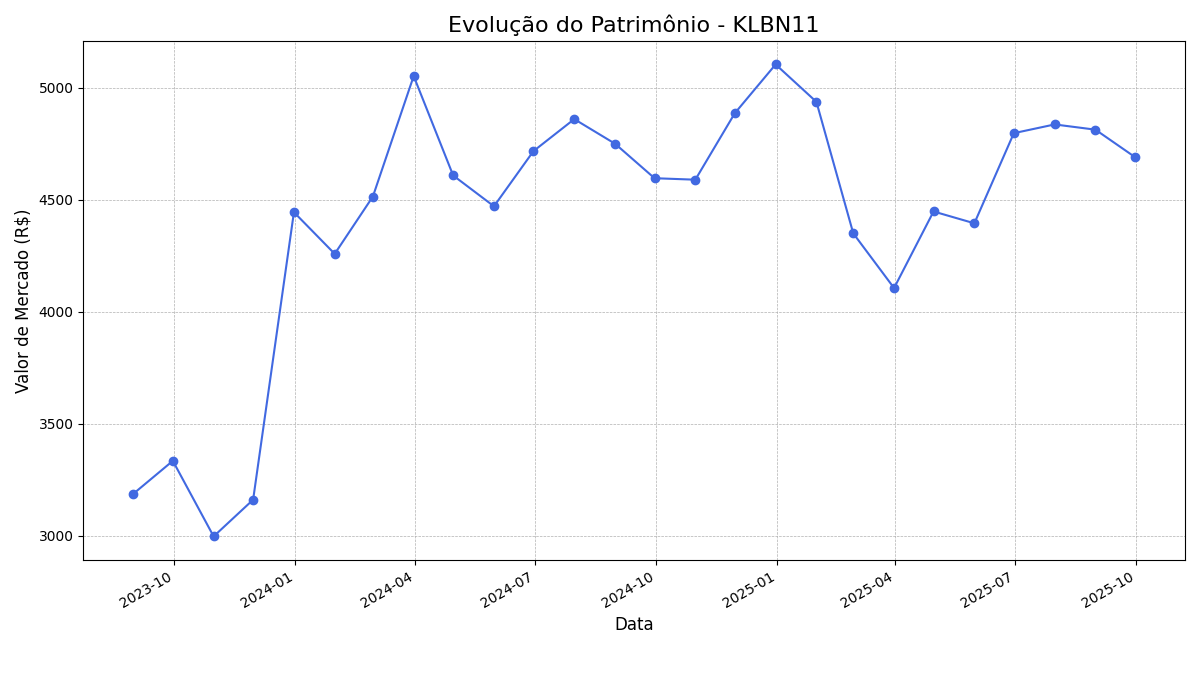
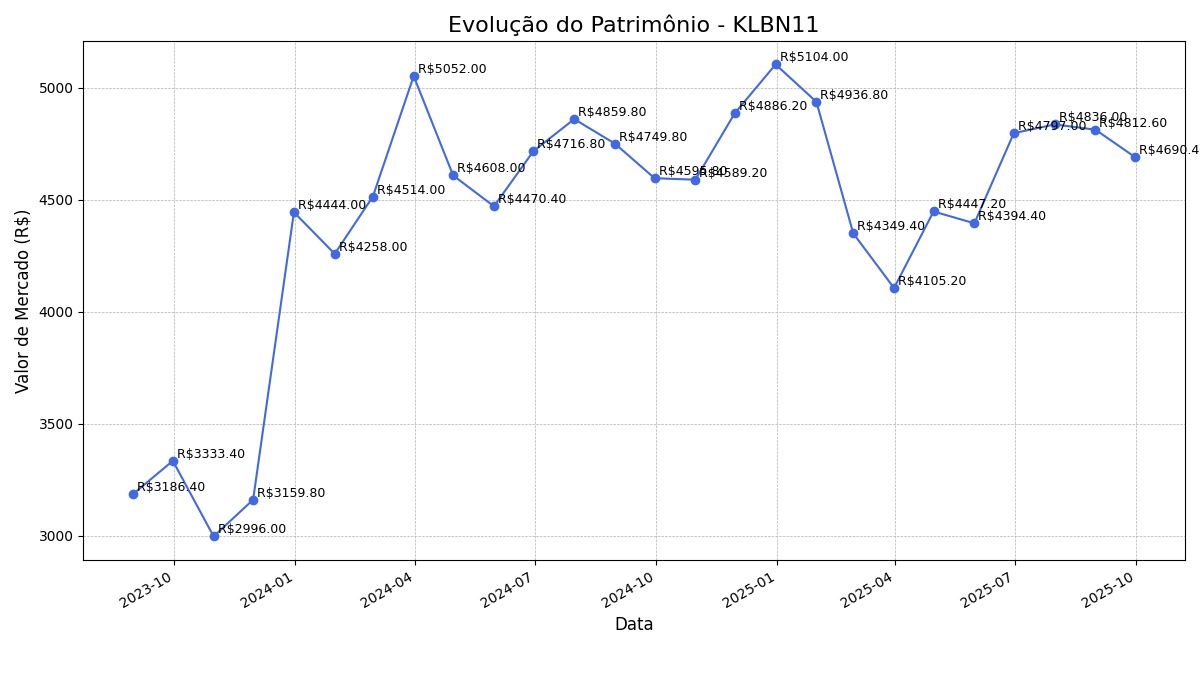
criado geraão de csv dos graficos. criado funcao main()

diff --git a/dlombello/main.py b/dlombello/main.py
@@ -15,6 +15,69 @@ token = os.getenv('DLP_TOKEN')
 if not token:
     raise ValueError("A variável de ambiente 'DLP_TOKEN' não foi encontrada ou está vazia. Verifique seu arquivo .env.")
 
+def gerar_grafico_twr(df: pd.DataFrame, ativo: str):
+    """
+    Calcula o Time-Weighted Return (TWR) e gera um gráfico da sua evolução.
+
+    Args:
+        df (pd.DataFrame): DataFrame com o histórico, contendo 'date', 'vlr_mercado' e 'vlr_investido'.
+        ativo (str): Nome do ativo para o título do gráfico.
+    """
+    colunas_necessarias = ['date', 'vlr_mercado', 'vlr_investido']
+    if not all(col in df.columns for col in colunas_necessarias):
+        print(f"DataFrame não contém as colunas necessárias ({', '.join(colunas_necessarias)}) para calcular o TWR.")
+        return
+
+    # Garante que a pasta de gráficos exista
+    pasta_graficos = "dlombello/graficos"
+    os.makedirs(pasta_graficos, exist_ok=True)
+
+    # 1. Preparar os dados
+    df_twr = df.copy()
+    df_twr['date'] = pd.to_datetime(df_twr['date'])
+    df_twr = df_twr.sort_values(by='date').reset_index(drop=True)
+
+    # 2. Calcular o fluxo de caixa (aportes/retiradas) em cada período
+    # O .diff() calcula a diferença entre a linha atual e a anterior.
+    df_twr['cash_flow'] = df_twr['vlr_investido'].diff().fillna(df_twr['vlr_investido'].iloc[0])
+
+    # 3. Calcular o valor inicial de cada período (valor do fim do período anterior)
+    # O .shift(1) move os valores uma linha para baixo.
+    df_twr['valor_inicial_periodo'] = df_twr['vlr_mercado'].shift(1).fillna(0)
+
+    # 4. Calcular o Retorno do Período (Holding Period Return - HPR)
+    # HPR = Valor Final / (Valor Inicial + Fluxo de Caixa)
+    # Usamos (valor_inicial_periodo + cash_flow) como denominador. Se for zero, o retorno é 1 (0%).
+    denominador = df_twr['valor_inicial_periodo'] + df_twr['cash_flow']
+    df_twr['hpr'] = df_twr['vlr_mercado'] / denominador
+    df_twr['hpr'] = df_twr['hpr'].fillna(1.0) # Trata possíveis divisões por zero no início
+
+    # 5. Calcular o TWR acumulado
+    # O .cumprod() multiplica acumuladamente os valores da série.
+    df_twr['twr_acumulado_%'] = (df_twr['hpr'].cumprod() - 1) * 100
+
+    # 6. Gerar o gráfico
+    plt.figure(figsize=(12, 7))
+    plt.plot(df_twr['date'], df_twr['twr_acumulado_%'], marker='o', linestyle='-', color='darkorange')
+    plt.title(f'Rentabilidade (TWR Acumulado) - {ativo}', fontsize=16)
+    plt.ylabel('Rentabilidade Acumulada (%)', fontsize=12)
+    plt.gca().yaxis.set_major_formatter(mticker.PercentFormatter())
+    plt.grid(True, which='both', linestyle='--', linewidth=0.5)
+    plt.axhline(0, color='black', linewidth=1.2, linestyle='--')
+    caminho_arquivo = os.path.join(pasta_graficos, f'evolucao_twr_{ativo}.png')
+
+    # Adiciona os rótulos de valor em cada ponto
+    for index, row in df_twr.iterrows():
+        plt.text(row['date'], row['twr_acumulado_%'], f' {row["twr_acumulado_%"]:.2f}%', va='bottom', ha='left', fontsize=9)
+
+    # Salva os dados em um arquivo CSV (formato para Excel brasileiro)
+    caminho_csv = os.path.join(pasta_graficos, f'evolucao_twr_{ativo}.csv')
+    df_twr[['date', 'twr_acumulado_%']].to_csv(caminho_csv, index=False, decimal=',', sep=';')
+    print(f"Dados do gráfico de TWR salvos em: {caminho_csv}")
+
+    plt.savefig(caminho_arquivo)
+    print(f"Gráfico de TWR salvo com sucesso em: {caminho_arquivo}")
+
 def gerar_grafico_percentual(df: pd.DataFrame, ativo: str):
     """
     Gera e salva um gráfico da evolução percentual (lucro/prejuízo) de um ativo.
@@ -58,6 +121,16 @@ def gerar_grafico_percentual(df: pd.DataFrame, ativo: str):
 
     # Salva o gráfico em um arquivo
     caminho_arquivo = os.path.join(pasta_graficos, f'evolucao_percentual_{ativo}.png')
+
+    # Adiciona os rótulos de valor em cada ponto
+    for index, row in df_grafico.iterrows():
+        plt.text(row['date'], row['evolucao_%'], f' {row["evolucao_%"]:.2f}%', va='bottom', ha='left', fontsize=9)
+
+    # Salva os dados em um arquivo CSV (formato para Excel brasileiro)
+    caminho_csv = os.path.join(pasta_graficos, f'evolucao_percentual_{ativo}.csv')
+    df_grafico[['date', 'evolucao_%']].to_csv(caminho_csv, index=False, decimal=',', sep=';')
+    print(f"Dados do gráfico percentual salvos em: {caminho_csv}")
+
     plt.savefig(caminho_arquivo)
     print(f"Gráfico percentual salvo com sucesso em: {caminho_arquivo}")
 
@@ -96,6 +169,16 @@ def gerar_grafico_evolucao(df: pd.DataFrame, ativo: str):
 
     # Salva o gráfico em um arquivo
     caminho_arquivo = os.path.join(pasta_graficos, f'evolucao_{ativo}.png')
+
+    # Adiciona os rótulos de valor em cada ponto
+    for index, row in df_grafico.iterrows():
+        plt.text(row['date'], row['vlr_mercado'], f' R${row["vlr_mercado"]:.2f}', va='bottom', ha='left', fontsize=9)
+
+    # Salva os dados em um arquivo CSV (formato para Excel brasileiro)
+    caminho_csv = os.path.join(pasta_graficos, f'evolucao_{ativo}.csv')
+    df_grafico[['date', 'vlr_mercado']].to_csv(caminho_csv, index=False, decimal=',', sep=';')
+    print(f"Dados do gráfico de evolução salvos em: {caminho_csv}")
+
     plt.savefig(caminho_arquivo)
     print(f"\nGráfico salvo com sucesso em: {caminho_arquivo}")
 
@@ -148,12 +231,20 @@ def buscar_historico(token: str, ativo: str = None, classe: str = None, corretor
         print("Erro ao processar a resposta da API. Não é um JSON válido.")
         return None
 
-# --- Exemplo de uso da função ---
-# Busca o histórico do ativo 'KLBN11'
-df_historico = buscar_historico(token, ativo="KLBN11")
+def main():
+    """
+    Função principal que orquestra a execução do script.
+    """
+    # Busca o histórico do ativo 'KLBN11'
+    df_historico = buscar_historico(token, ativo="KLBN11")
 
-if df_historico is not None:
-    print("Dados capturados com sucesso! Exibindo as 5 primeiras linhas:")
-    print(df_historico.head())
-    gerar_grafico_evolucao(df_historico, ativo="KLBN11")
-    gerar_grafico_percentual(df_historico, ativo="KLBN11")
+    if df_historico is not None:
+        print("Dados capturados com sucesso! Exibindo as 5 primeiras linhas:")
+        print(df_historico.head())
+        gerar_grafico_evolucao(df_historico, ativo="KLBN11")
+        gerar_grafico_percentual(df_historico, ativo="KLBN11")
+        gerar_grafico_twr(df_historico, ativo="KLBN11")
+
+# Garante que a função main() só seja executada quando o script for rodado diretamente
+if __name__ == "__main__":
+    main()
